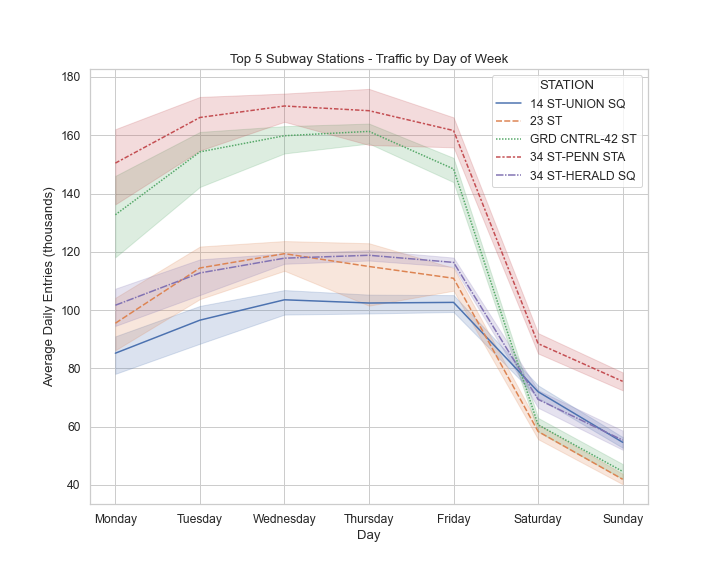
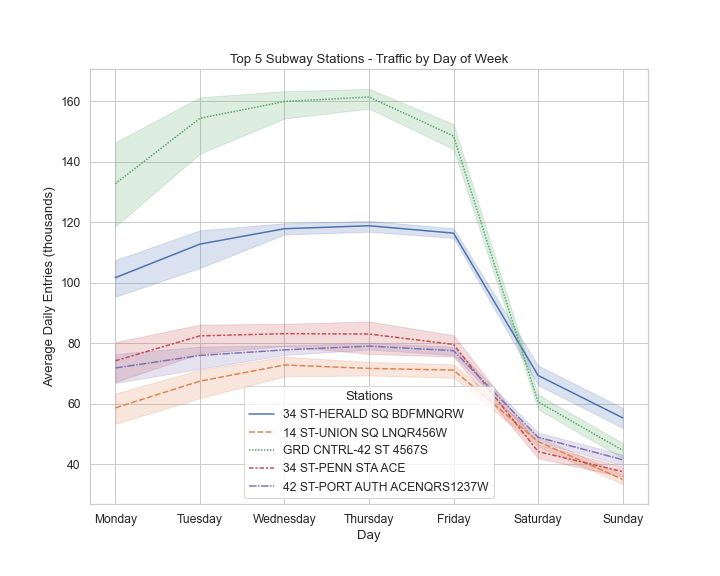
update analysis to consider unique combinations of station and line rather than station only

diff --git a/minimum_viable_product.md b/minimum_viable_product.md
@@ -10,7 +10,7 @@ The train stations with the highest traffic are shown below:
 
 ![top 5 stations](top_5_stations.png)
 
-Preliminary analysis shows that these are the stations which should be targeted for promotional activities to reach the largest number of potential participants.
+Preliminary analysis shows that these are the stations which should be targeted for promotional activities to reach the largest number of potential participants. Note that station names and line names were considered together in order to represent an individual station location.
 
 Those top five stations all show a decrease in traffic over the weekend:
 
@@ -22,7 +22,7 @@ The monthly trend of traffic shows an increase in traffic at the beginning of sp
 
 ![monthly traffic](monthly_traffic.png)
 
-The analysis completed to this point suggests that Penn Station, Grand Central Station, Herald Square, 23rd Street, and Union Square should be the focus of promotion efforts. Weekdays would be best. Additional traffic seen at the beginning of spring may be of help to promotional efforts, but may also simply be an indication of increased tourism, which would not be particularly helpful to WTWY.
+The analysis completed to this point suggests that Grand Central Station, Herald Square, Penn Station, Port Authority, and Union Square should be the focus of promotion efforts. Weekdays would be best. Additional traffic seen at the beginning of spring may be of help to promotional efforts, but may also simply be an indication of increased tourism, which would not be particularly helpful to WTWY.
 
 ### Further Analysis
 The time of day to promote has not yet been evaluated. Also, demographic data was not considered in this preliminary analysis. These are two areas where future efforts will be focused. Additional turnstile entry data from other time periods may also be considered.
